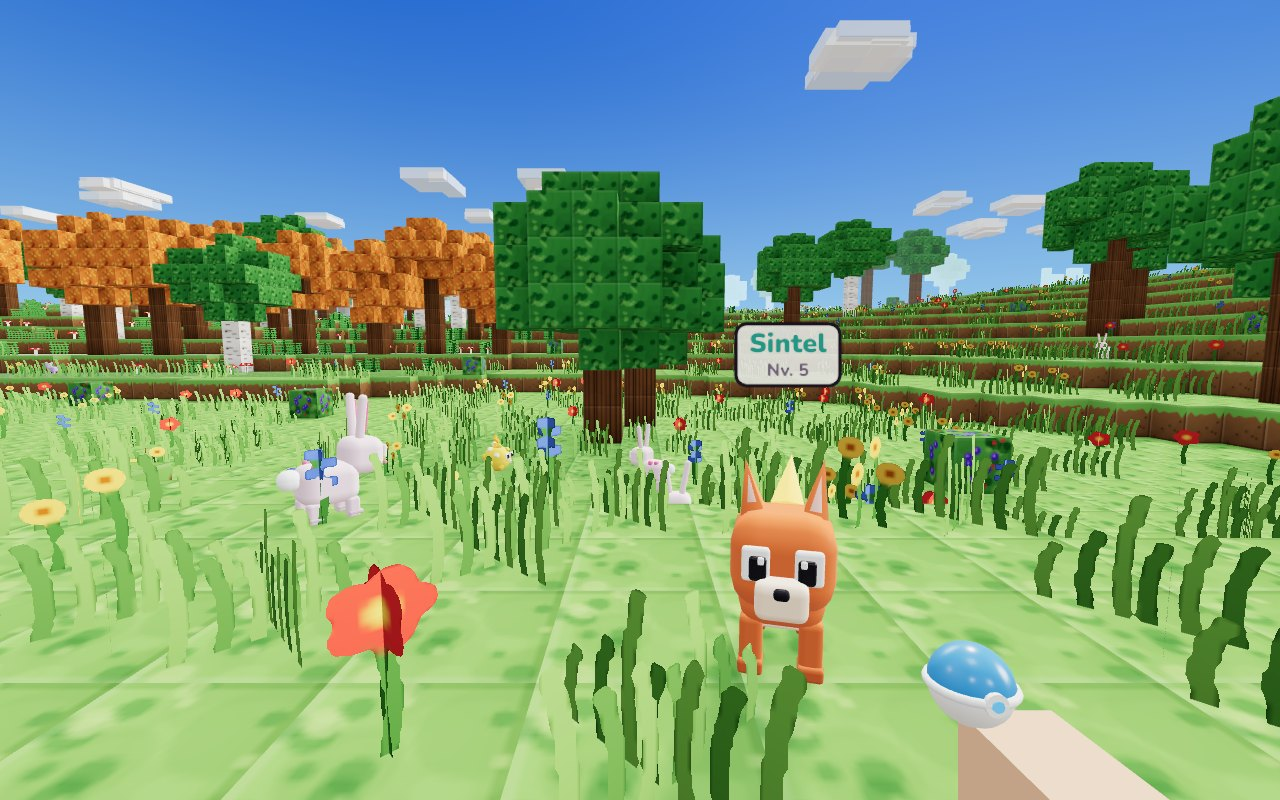
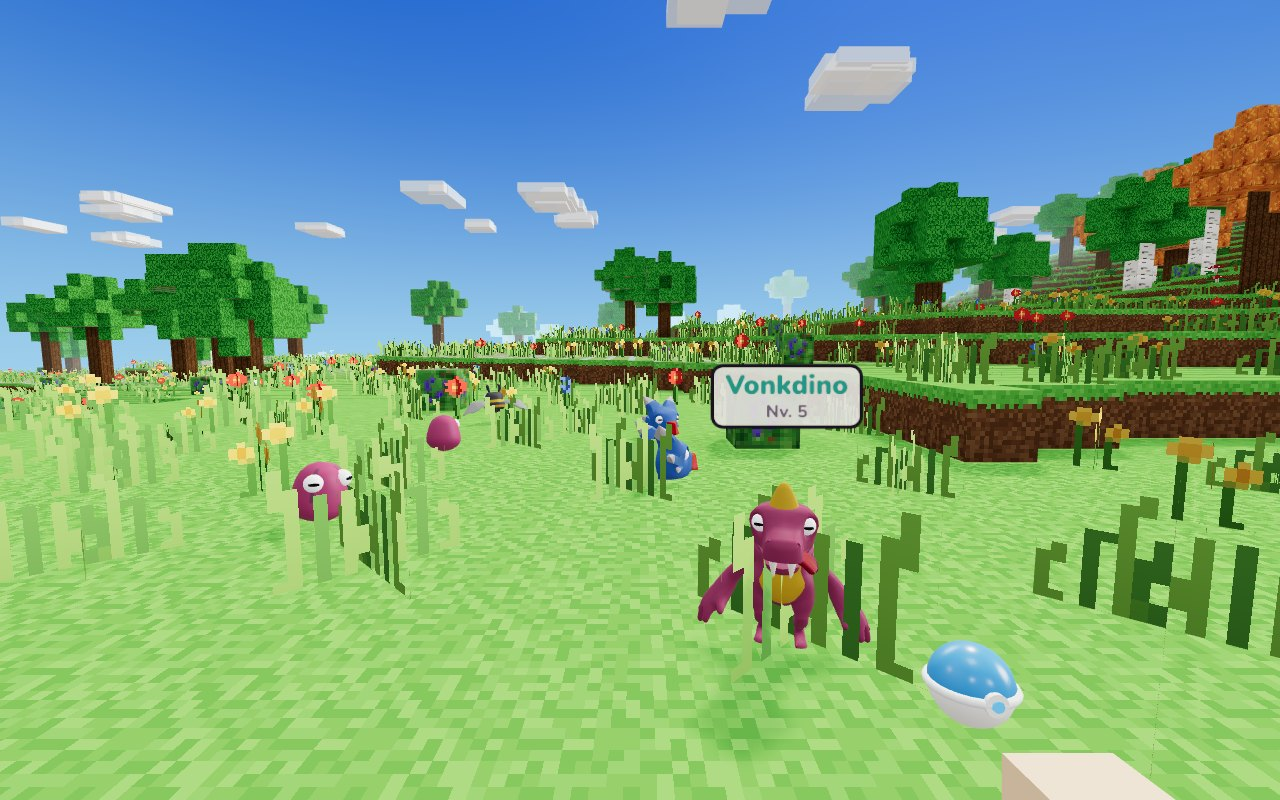
Update Kublings cover and description

diff --git a/index.html b/index.html
@@ -132,7 +132,7 @@
   <script>
     const GAMES = [
       { id: 'kublings', name: 'KUBLINGS', url: 'https://kublings.vercel.app/', color: '#5bb85a', tags: ['3d', 'bot'], fresh: true,
-        sub: 'Creature catcher', desc: 'An endless voxel world full of wild Kublings. Catch them, train them in turn-based battles, craft capture balls and beat the trainers in every village.',
+        sub: 'Creature catcher', desc: 'An endless block world full of 31 animated Kublings. Catch them, evolve them in turn-based battles, craft capture balls and beat the trainers in every village.',
         meta: ['3D', 'Catch + battle', 'Singleplayer'] },
       { id: 'zonefall', name: 'ZONEFALL', url: 'zonefall/', color: '#e8b130', tags: ['multi', '3d', 'bot'],
         sub: 'Battle royale', desc: 'Drop onto Kessler Isle, loot weapons, take a car and be the last one standing while the zone closes in.',
